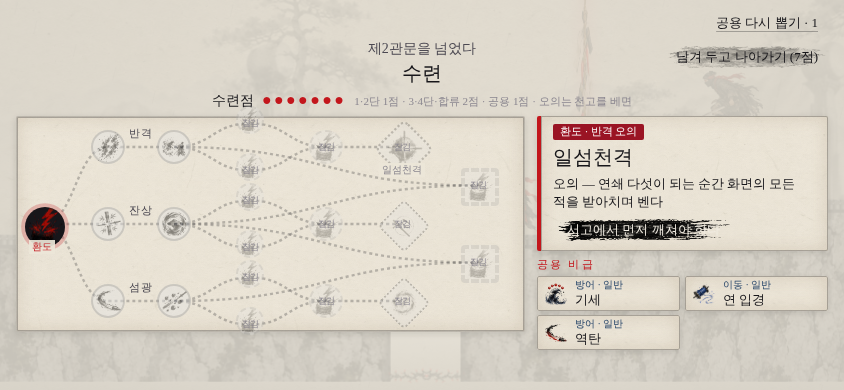
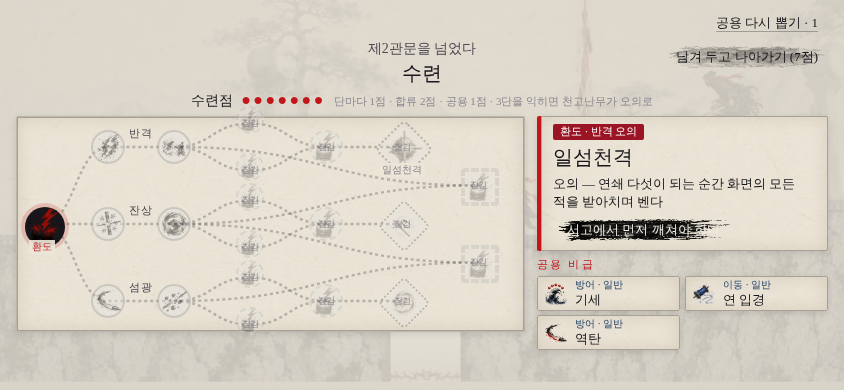
Difficulty from play log (breath 4, longer i-frames, wider 간파, gentler 매 dive, one free fall per gate, lighter guardians) and 천고난무 rework: plain shared move, becomes the weapon's 오의 when a branch reaches 3단
Claude-Session: https://claude.ai/code/session_01Rc1cVb1vkCQfdutHoe7fgf

Changed region(s): [[0.2156, 0.2462, 0.7701, 0.2769]]

diff --git a/js/game.js b/js/game.js
@@ -180,6 +180,10 @@ const treeNodesHeld = () => (run.perks || []).filter(id => nodeOf(id));
 // 서고 수련: 0 → 3단까지, 1 → 4단까지, 2 → 합류까지 (META.treeOpen[weapon] counts what has been learned)
 const TREE_OPEN = [{ hon: TUNING.TREE_OPEN_HON[0], ms: 0, name: "3단 깨치기", desc: "모든 무기의 갈래마다 둘 중 하나를 고르는 3단이 열린다" }, { hon: TUNING.TREE_OPEN_HON[1], ms: 1, name: "4단 깨치기", desc: "모든 무기의 3단 뒤 4단이 열린다 (어느 무기든 숙련 1)" }, { hon: TUNING.TREE_OPEN_HON[2], ms: 2, name: "합류 깨치기", desc: "모든 무기에서 이웃한 두 갈래를 잇는 합류가 열린다 (어느 무기든 숙련 2)" }];
 const treeOpen = () => { const o = META.treeOpen || {}; return Math.max(o.all || 0, ...Object.values(o).filter(Number.isFinite)); };   // learned once for every weapon (older saves: the furthest any weapon got)
+// 천고난무-오의: taking a branch's 3단 in this run turns the plain 천고난무 into the weapon's 오의 (and grants that branch's 오의 node)
+const ougiOpen = () => !!(run && run.ougiId);
+function branchEnd(c) { if (!c || !c.tree || c.tier !== 3 || run.ougiId) return; const o = CHOSIK.find(x => x.tree === c.tree && x.ougi && x.br === c.br);
+  run.ougiId = o ? o.id : "open"; if (o && !run.perks.includes(o.id)) run.perks.push(o.id); Music.jing(); toast(`갈래 끝에 닿았다 · 천고난무가 오의로 바뀐다 — ${ougiOf().name}`); }
 const lockLv = c => c.merge ? 3 : c.ougi ? 1 : c.lock || 0;   // 오의 too stays sealed until the 서고 opens the deeper steps
 function treeOffer() { // the nodes you could take now: the root, then step by step along a branch; 오의 never (깨달음 gives it)
   const T = treeKey(), held = new Set(run.perks || []), out = [], hasRoot = CHOSIK.some(o => o.tree === T && o.tier === 0);
@@ -193,15 +197,11 @@ function syncCombos() { // two 비급 held together reveal a third
   for (const c of COMBOS) if (!run.perks.includes(c.id) && COMBO_NEED[c.id].every(id => has(id))) { run.perks.push(c.id); toast(`조합 발견 · ${c.name} — ${c.desc.replace(/^조합\([^)]*\) — /, "")}`); Music.jing(); }
 }
 // 깨달음: cutting 천고 opens one 오의 at the end of a branch you have walked two steps along; a second time awakens it
-function enlighten(then) {
+function enlighten(then) { // cutting 천고: an open 오의 awakens; otherwise a reminder of how it opens
   then = then || (() => showChoice("cycle"));
-  const tk = treeKey(), held = new Set(run.perks || []);
-  if (run.ougiId) { if (!run.ougiAwake) { run.ougiAwake = true; saveRun(); const c = CHOSIK_BY[run.ougiId]; toast(`각성 · ${c ? c.name : "오의"} — 천고 오의가 더 넓고, 쓰면 기운 절반이 돌아온다`); Music.jing(); } run.choosing = "cycle"; saveRun(); return then(); }
-  if (treeOpen() < 1) { toast("깨달음이 오지 않았다 · 본당 서고에서 \"3단 깨치기\"를 먼저 해야 오의를 깨칠 수 있다"); run.choosing = "cycle"; saveRun(); return then(); }
-  const els = CHOSIK.filter(c => c.tree === tk && c.ougi && CHOSIK.some(o => o.tree === tk && o.br === c.br && o.tier === 2 && held.has(o.id)));
-  if (!els.length) { toast("깨달음이 오지 않았다 · 한 갈래를 2단까지 걸어야 한다"); run.choosing = "cycle"; saveRun(); return then(); }
-  pickScreen("깨달음", "천고를 베었다 — 걸어온 갈래 끝에서 오의 하나가 열린다", els.map(c => ({ id: c.id, name: pv(c).name, han: pv(c).han, desc: pv(c).desc.replace(/^오의 — /, ""), icon: pv(c).icon })), it => {
-    run.ougiId = it.id; run.perks.push(it.id); run.choosing = "cycle"; saveRun(); Music.jing(); toast(`오의를 깨쳤다 · ${it.name}`); then(); });
+  if (ougiOpen()) { if (!run.ougiAwake) { run.ougiAwake = true; toast(`각성 · ${ougiOf().name} — 천고난무-오의가 더 넓고, 쓰면 기운 절반이 돌아온다`); Music.jing(); } }
+  else toast("한 갈래를 3단까지 익히면 천고난무가 오의로 바뀐다");
+  run.choosing = "cycle"; saveRun(); return then();
 }
 
 const kindOf = id => (CHOSIK.find(c => c.id === id) || {}).kind;
@@ -557,7 +557,7 @@ window.addEventListener("keyup", e => {
   if (slashKey(e.code) && iaiFrom != null) { slashReq = { dir: null, ts: e.timeStamp, dash: false, iai: (e.timeStamp - iaiFrom) / 1000 }; iaiFrom = null; if (P) P.iaiHold = false; return; }
   const a = keyAct(e.code); if (a) held[a] = 0; });
 let iaiFrom = null, remapFor = null;
-const KEY_ACTS = [["slash", "베기", "J"], ["jump", "점프", "Space"], ["dash", "대시", "K"], ["hook", "연", "L"], ["drum", "오의 (북)", "Q"]];
+const KEY_ACTS = [["slash", "베기", "J"], ["jump", "점프", "Space"], ["dash", "대시", "K"], ["hook", "연", "L"], ["drum", "천고난무 (북)", "Q"]];
 const keyName = c => !c ? "" : c.replace(/^Key/, "").replace(/^Digit/, "").replace("ShiftLeft", "왼 Shift").replace("ShiftRight", "오른 Shift").replace("Space", "Space");
 function keyScreen() { // 키 바꾸기: one extra key per action, kept beside the defaults
   const ck = settings.keys || {};
@@ -898,7 +898,7 @@ const dailySeed = key => { let h = 2166136261; for (const c of "천고" + key) h
 function newRun(quiet, daily) {
   if (hubOn) leaveHub();
   const key = todayKey();
-  run = { v: 2, seed: daily ? dailySeed(key) : (Math.random() * 2 ** 32) >>> 0, dateKey: key, daily: daily ? key : undefined, m: 0, cp: -1, dead: [],
+  run = { v: 2, seed: daily ? dailySeed(key) : (Math.random() * 2 ** 32) >>> 0, dateKey: key, daily: daily ? key : undefined, m: 0, cp: -1, dead: [], sp: TUNING.START_SP,
     breath: startBreath(), time: 0, deaths: 0, kills: 0, strikes: 0, slashes: 0, perks: [], weapon: "hwando", oath: null, char: "mumyeong", picking: true };
   mode = "run";
   saveRun(); if (quiet !== true) startPicks();
@@ -1002,7 +1002,7 @@ function enterMadang() {
   try { navigator.wakeLock && navigator.wakeLock.request("screen").catch(() => {}); } catch (e) {}
 }
 function tutHints() { // the 수련터 signs, read for the hands in use: touch words on a phone, keys on a keyboard — plus the beat and the short dash
-  const K = ["← → 이동 · Space 점프", null, "J = 베기 · ↑↓와 함께 위아래", null, null, "공중에서 K를 누르고 있으면 무아경 — 시간이 느려지고 기력이 닳는다", "원이 점이 될 때 베면 간파 · 북이 차면 Q로 오의"];
+  const K = ["← → 이동 · Space 점프", null, "J = 베기 · ↑↓와 함께 위아래", null, null, "공중에서 K를 누르고 있으면 무아경 — 시간이 느려지고 기력이 닳는다", "원이 점이 될 때 베면 간파 · 북이 차면 Q로 천고난무"];
   const hs = TUTORIAL.hints.map((h, i) => MOBILE || !K[i] ? h : [h[0], h[1], K[i]]);
   hs.push([38, 8, MOBILE ? "대시 짧게 = 짧은 돌진" : "K 짧게 = 짧은 돌진"], [73, 2, "북이 쿵 울리는 박에 베면 붉은 일격"]);
   return hs;
@@ -1063,7 +1063,7 @@ function die(kind, dmg = 1) {
 }
 function guardBlow(kind) { // 방어 비급: what takes the blow instead of a 숨
   const cx = P.x + P.w / 2, cy = P.y + P.h / 2, ward = (t, msg) => { P.invT = t; P.focus = false; Music.muffle(false); P.dashT = 0; shake = Math.max(shake, 7); flash = .15; hitstop = Math.max(hitstop, .06); Music.sfx("clang"); ringFx(cx, cy, 110, "rgba(195,22,28,.6)", .35); toast(msg); lastHitDir = null; return true; };
-  if (kind === "fall") { if (has("d_nakbeop") && (run.nakN || 0) < 2 && P.safe) { run.nakN = (run.nakN || 0) + 1; P.x = P.safe.x; P.y = P.safe.y; P.vx = P.vy = 0; P.hook = null; return ward(1.2, `낙법 · 딛던 땅으로 (${2 - run.nakN}번 남음)`); } return false; }
+  if (kind === "fall") { if ((run.nakN || 0) < (has("d_nakbeop") ? 2 : 1) + TUNING.FREE_FALLS - 1 && P.safe) { run.nakN = (run.nakN || 0) + 1; P.x = P.safe.x; P.y = P.safe.y; P.vx = P.vy = 0; P.hook = null; return ward(1.2, `낙법 · 딛던 땅으로 (${2 - run.nakN}번 남음)`); } return false; }
   if (has("bd_b3") && (P.iaiHold || (P.focus && wk() === "baldo")) && (run.fudoN || 0) < 3) { run.fudoN = (run.fudoN || 0) + 1; const t = nearestFoes(cx, cy, 1, 400)[0];   // 부동명왕
     P.iaiHold = false; P.focus = false; Music.muffle(false); if (t) { const dx = t.x + t.w / 2 - cx, dy = t.y + t.h / 2 - cy, L = Math.hypot(dx, dy) || 1; P.iaiCut = true; startDash({ x: dx / L, y: 0 }, true); P.dashT = .22; hurtEnemy(t, t.type !== "b" ? true : 2); }
     ougiArt(["ogA", 10], cx, P.y + P.h, 150, { life: .7, ay: 1 }); return ward(.8, `부동명왕 · ${3 - run.fudoN}번 남음`); }
@@ -1128,7 +1128,7 @@ function madangClear() {
 // 수련: a real skill tree. Each cleared gate gives 수련점; spend them on the weapon's tree (a node opens the next along its branch),
 // or on a shared 비급 for the 방어·간파·이동 slots. Unspent points are kept.
 const SP_GAIN = TUNING.SP_GAIN;
-const spCost = c => c.tier >= 3 ? 2 : 1;
+const spCost = c => c.merge ? 2 : 1;   // a branch walks to its end on one point a step
 function showChoice(kind) {   // kind: "madang" after a cleared gate, "cycle" after cutting 천고, "bonus", "tower", or "pause" (spending from the pause menu)
   const done = () => {
     run.choosing = null; $("choice").classList.remove("tree");
@@ -1155,14 +1155,14 @@ function showChoice(kind) {   // kind: "madang" after a cleared gate, "cycle" af
   $("chTitle").textContent = "수련"; $("choice").classList.remove("route", "wpick"); $("choice").classList.add("tree"); document.querySelectorAll(".route-trail,.ch-held").forEach(o => o.remove());
   $("chMadang").textContent = kind === "pause" ? "멈춤 · 수련" : kind === "tower" ? `천고탑 ${run.floor - 1}층을 넘었다` : kind === "cycle" ? `천고를 베었다 · ${(run.cycle || 0) + 1}번째` : kind === "bonus" ? "징조의 대가" : run.cleared === "rest" ? "쉼터 · 수련" : run.cleared === "event" ? "기연" : `${josa(stageOf(run.m - 1).ko, "을", "를")} 넘었다`;
   const box = $("cards"); box.innerHTML = "";
-  const sp = document.createElement("div"); sp.className = "tr-sp"; sp.innerHTML = `수련점 <b>${"●".repeat(run.sp || 0) || "－"}</b><small>1·2단 1점 · 3·4단·합류 2점 · 공용 1점 · 오의는 천고를 베면</small>`; box.appendChild(sp);
+  const sp = document.createElement("div"); sp.className = "tr-sp"; sp.innerHTML = `수련점 <b>${"●".repeat(run.sp || 0) || "－"}</b><small>단마다 1점 · 합류 2점 · 공용 1점 · 3단을 익히면 천고난무가 오의로</small>`; box.appendChild(sp);
   const wrap = document.createElement("div"); wrap.className = "tr-wrap"; box.appendChild(wrap);
   const graph = document.createElement("div"); graph.className = "tr-graph"; const side = document.createElement("div"); side.className = "tr-side"; wrap.append(graph, side);
   let sel = null;
   const learn = c => { const cost = c.tree ? spCost(c) : 1; if ((run.sp || 0) < cost) { toast("수련점이 모자라다"); return; }
     if (!(META.seen = META.seen || []).includes(c.id)) { META.seen.push(c.id); saveMeta(); }
     if (c.id === "sum") { run.sp -= cost; run.breath = Math.min(breathCap(), run.breath + 1); }
-    else if (c.tree) { if (!canTake.has(c.id)) return; run.sp -= cost; run.perks.push(c.id); }
+    else if (c.tree) { if (!canTake.has(c.id)) return; run.sp -= cost; run.perks.push(c.id); branchEnd(c); }
     else if (slotFull(c.kind)) { replaceScreen(c, ok => { if (ok) run.sp -= cost; saveRun(); showChoice(kind); }); return; }
     else { run.sp -= cost; run.perks.push(c.id); }
     syncCombos(); Music.sfx("lantern"); saveRun(); showChoice(kind); };
@@ -1170,7 +1170,7 @@ function showChoice(kind) {   // kind: "madang" after a cleared gate, "cycle" af
     const v = pv(c), mine = owned(c.id), can = c.tree ? canTake.has(c.id) : true, cost = c.tree ? spCost(c) : 1;
     const lk = c.tree && lockLv(c) > treeOpen(), r = !c.tree && RARITY[c.id] || 1, otherFork = c.fork != null && CHOSIK.some(o => o.tree === tk && o.br === c.br && o.tier === 3 && o.id !== c.id && owned(o.id));
     const d = side.querySelector(".tr-det"); d.innerHTML = `<em class="tag kind${c.ougi ? " ougi" : ""}">${c.tree ? `${T.name} · ${c.brName} ${c.ougi ? "오의" : c.tier ? c.tier + "단" : ""}` : `${c.kind || "숨"}${c.kind ? " · " + RAR_NAME[r] : ""}`}</em><b>${v.name}</b><p>${v.desc}</p>`;
-    const b = document.createElement("button"); b.className = "btn pri"; b.textContent = mine ? "익혔다" : c.ougi ? (treeOpen() < 1 ? "서고에서 먼저 깨쳐야 한다" : "천고를 베면 깨닫는다") : lk ? "서고에서 먼저 깨쳐야 한다" : otherFork ? "다른 갈래를 골랐다" : !can ? "앞 단계를 먼저" : `익히기 · ${cost}점`; b.disabled = mine || !can || (run.sp || 0) < cost; b.addEventListener("click", () => learn(c)); d.appendChild(b); };
+    const b = document.createElement("button"); b.className = "btn pri"; b.textContent = mine ? "익혔다" : c.ougi ? (treeOpen() < 1 ? "서고에서 먼저 깨쳐야 한다" : "이 갈래 3단을 익히면 열린다") : lk ? "서고에서 먼저 깨쳐야 한다" : otherFork ? "다른 갈래를 골랐다" : !can ? "앞 단계를 먼저" : `익히기 · ${cost}점`; b.disabled = mine || !can || (run.sp || 0) < cost; b.addEventListener("click", () => learn(c)); d.appendChild(b); };
   if (T) { // the graph: root on the left, three branches → 1단 · 2단 · a fork of two · 4단 · 오의, two 합류 on the far right
     const ys = [14, 50, 86], X = { 0: 5, 1: 18, 2: 31, 3: 46, 4: 61, 5: 76 }, mx = 91, at = c => c.tier === 0 ? [X[0], 50] : c.merge ? [mx, (ys[c.merge[0]] + ys[c.merge[1]]) / 2] : [X[c.tier], ys[c.br] + (c.fork != null ? (c.fork ? 11 : -11) : 0)];
     const nodes = CHOSIK.filter(c => c.tree === tk), on = c => owned(c.id), line = (p, q, lit) => `<path d="M${p[0]} ${p[1]} C ${(p[0] + q[0]) / 2} ${p[1]}, ${(p[0] + q[0]) / 2} ${q[1]}, ${q[0]} ${q[1]}" class="${lit ? "on" : ""}"/>`;
@@ -1370,7 +1370,7 @@ function endRun(won) {
   $("rStats").innerHTML = "";
   const gain = runRewards(reached);
   if (mode !== "tutorial") { META.log = (Array.isArray(META.log) ? META.log : []).slice(-29); META.log.push({ d: todayKey(), w: run.weapon, diff: settings.diff, r: reached, won: !!won, hon: gain.hon, cause: won ? null : run.lastCause || null, t: Math.round(run.time), g: (run.log || []).slice(-8) });   // the last thirty runs, for the 기록 board
-    const last = META.log.slice(-3); if (settings.diff === 1 && last.length === 3 && last.every(l => !l.won && l.r <= 1) && !(META.tips || {}).suggestEasy) { (META.tips = META.tips || {}).suggestEasy = 1; setTimeout(() => toast("초반이 벅차면 설정에서 난이도 \"수월\"을 고를 수 있다"), 1800); } }
+    const last = META.log.slice(-2); if (settings.diff === 1 && last.length === 2 && last.every(l => !l.won && l.r <= 1) && !(META.tips || {}).suggestEasy) { (META.tips = META.tips || {}).suggestEasy = 1; setTimeout(() => toast("초반이 벅차면 설정에서 난이도 \"수월\"을 고를 수 있다"), 1800); } }
   if (mode !== "tutorial" && run.petJ && petMeta()) { const b4 = petStage(); META.pet.jeong = (META.pet.jeong || 0) + run.petJ; gain.jeong = run.petJ; run.petJ = 0; if (petStage() > b4) gain.petUp = PET_ST[petStage()]; }
   if (mode !== "tutorial") { gain.sum = Math.max(1, Math.max(0, run.breath) + Math.floor(reached / 2)); META.sum = (META.sum || 0) + gain.sum; saveMeta(); }   // the breath left over goes home to the 거점
   retryGain = null;   /* 다시 시작 is gone: a death is a death */
@@ -2311,11 +2311,11 @@ function stepEnemiesIn(dt) {
       e.t += dt;
       const sees = live && dist < 430 && los(ecx, ecy, pcx, pcy);
       if (e.diveT > 0) { e.diveT -= dt; e.vx = e.dvx; e.vy = e.dvy; }   // 매: the dive itself
-      else if (e.diveAt != null) { e.vx *= .85; e.vy *= .85; if (songPos >= e.diveAt) { const L = Math.hypot(pcx - ecx, pcy - ecy) || 1; e.dvx = (pcx - ecx) / L * 560; e.dvy = (pcy - ecy) / L * 560; e.diveT = .45; e.diveAt = null; e.diveReady = songPos + 3 * bl; Music.sfx("dash"); } }
-      else if (sees && dist < 300 && songPos >= (e.diveReady || 1)) { e.diveAt = (Math.floor(songPos / bl) + 1) * bl; if (e.diveAt - songPos < .5) e.diveAt += bl; }
+      else if (e.diveAt != null) { e.vx *= .85; e.vy *= .85; if (songPos >= e.diveAt) { const L = Math.hypot(pcx - ecx, pcy - ecy) || 1; e.dvx = (pcx - ecx) / L * TUNING.HAWK_DIVE_V; e.dvy = (pcy - ecy) / L * TUNING.HAWK_DIVE_V; e.diveT = .45; e.diveAt = null; e.diveReady = songPos + TUNING.HAWK_REST_BEATS * bl; Music.sfx("dash"); } }
+      else if (sees && dist < 300 && songPos >= (e.diveReady || 1)) { e.diveAt = (Math.floor(songPos / bl) + 1) * bl; if (e.diveAt - songPos < TUNING.HAWK_TELL) e.diveAt += bl; }
       else if (sees) { e.vx += (pcx - ecx) / dist * 520 * dt; e.vy += (pcy - ecy) / dist * 520 * dt; }
       else { e.vx += (e.hx - e.x) * 2 * dt; e.vy += (e.hy + Math.sin(e.t * 2) * 10 - e.y) * 2 * dt; }
-      const sp = Math.hypot(e.vx, e.vy), cap = e.diveT > 0 ? 600 : (sees ? 175 : 80); if (sp > cap) { e.vx *= cap / sp; e.vy *= cap / sp; }
+      const sp = Math.hypot(e.vx, e.vy), cap = e.diveT > 0 ? TUNING.HAWK_DIVE_V + 40 : (sees ? 175 : 80); if (sp > cap) { e.vx *= cap / sp; e.vy *= cap / sp; }
       if (moveX(e, e.vx * dt)) e.vx *= -0.5;
       if (moveY(e, e.vy * dt)) e.vy *= -0.5;
       if (live && overlap(e, P)) { if (P.dashT > 0 || P.slashT > 0) { if (P.dashT > 0 ? !P.dashHit.has(e.id) : !(P.hitSet && P.hitSet.has(e.id))) { (P.dashT > 0 ? P.dashHit : P.hitSet).add(e.id); if (P.dashT > 0) dashHurt(e); else hurtEnemy(e, P.strike && P.slashT > 0); } } else if (!(e.hitT > 0)) die(); }
@@ -2458,22 +2458,23 @@ const viaMua = () => !!(P && P.aimDash && !P.tapDash);   // the cut came out of 
 function chainAdd(n) { if (!P) return; const g0 = Math.min(5, P.chain || 0); P.chain = (P.chain || 0) + n; P.chainPop = .25; if (Math.min(5, P.chain) > g0) Music.sfx("lantern"); }
 function addQi(n) { // 천고 기운: won by fighting well — 일섬, 간파, 과녁
   if (mode === "tutorial" || !run) return; const before = run.qi || 0; run.qi = Math.min(100, before + n * .6 * (1 + treeStat("qi")) * (oath("jangdan") ? 2 : 1) * (1 + .15 * Math.min(8, (P && P.chain) || 0)));
-  if (before < 100 && run.qi >= 100) { if (META.tips && META.tips.chungo) toast(`천고 기운이 찼다 · ${MOBILE ? "태극 북" : "북 또는 Q"} → 오의 ${ougiOf().name}`);
-    else tipOnce("chungo", `오의 · ${ougiOf().name}`, `북이 다 찼다 — ${ougiOf().tip}. 원할 때 쓴다`, MOBILE ? "아래 태극 북을 누르기" : "태극 북 클릭 또는 Q"); Music.jing(); }
+  if (before < 100 && run.qi >= 100) { if (META.tips && META.tips.chungo) toast(`천고 기운이 찼다 · ${MOBILE ? "태극 북" : "북 또는 Q"} → ${drumName()}`);
+    else tipOnce("chungo", "천고난무", `북이 다 찼다 — 가까운 적 다섯을 먹선으로 잇고 한 번에 벤다. 한 갈래를 3단까지 익히면 무기의 오의로 바뀐다`, MOBILE ? "아래 태극 북을 누르기" : "태극 북 클릭 또는 Q"); Music.jing(); }
 }
 let chungoFx = null;
 const ougiOf = () => OUGI[wpn()] || OUGI[wrule()] || OUGI.hwando;
+const drumName = () => ougiOpen() ? `천고난무-오의 · ${ougiOf().name}` : "천고난무";
 function ougiArt(key, x, y, h, o = {}) { const [sh, i] = key; if (SPR[sh]) { addFx(sh, i, x, y, h, { life: .6, grow: .3, ...o }); return true; } return false; }
 function ougiCall(o) { flashDim = Math.max(flashDim, .1); }   // the art speaks for itself: no name is written
 let bossBannerLite = null;   // the 오의's name brushed large for a moment
-function chungo() { // the full drum: 오의. Swords lay ink lines from foe to foe, then all fall at once; guns let go a single overwhelming volley
-  const o = ougiOf(), w = wpn();
-  if (WEAPONS[w] && WEAPONS[w].gun) return gunOugi(w, o);
+function chungo() { // the full drum: 천고난무 — plain and the same for every weapon until a branch's end turns it into the weapon's 오의
+  const o = ougiOf(), w = wpn(), open = ougiOpen();
+  if (open && WEAPONS[w] && WEAPONS[w].gun) return gunOugi(w, o);
   const cx = P.x + P.w / 2, cy = P.y + P.h / 2, d = a => Math.hypot(a.x + a.w / 2 - cx, a.y + a.h / 2 - cy);
-  const ts = enemies.filter(e => e.alive && !ghostly(e) && !e.hidden && d(e) < (run.ougiAwake ? 640 : 480)).sort((a, b) => d(a) - d(b)).slice(0, (has("d_giseom") ? 10 : 8) + (run.ougiAwake ? 4 : 0));
+  const ts = enemies.filter(e => e.alive && !ghostly(e) && !e.hidden && d(e) < (!open ? 400 : run.ougiAwake ? 640 : 480)).sort((a, b) => d(a) - d(b)).slice(0, !open ? 5 : (has("d_giseom") ? 10 : 8) + (run.ougiAwake ? 4 : 0));
   if (!ts.length) return false;
   const pts = [{ x: cx, y: cy }, ...ts.map(e => ({ x: e.x + e.w / 2, y: e.y + e.h / 2 }))];
-  chungoFx = { pts, ts, t: 0, done: false, w: wrule() }; run.qi = run.ougiAwake ? 50 : 0; P.invT = Math.max(P.invT || 0, 1.2); P.vx = P.vy = 0;
+  chungoFx = { pts, ts, t: 0, done: false, w: open ? wrule() : "hwando", plain: !open }; run.qi = run.ougiAwake ? 50 : 0; P.invT = Math.max(P.invT || 0, 1.2); P.vx = P.vy = 0;
   for (const e of ts) e.stunT = Math.max(e.stunT || 0, 2); Music.sfx("dash"); flashDim = .12; ougiCall(o); return true;
 }
 function gunOugi(w, o) { // the four guns' 오의
@@ -2502,11 +2503,11 @@ function stepChungo(rdt) {
   const c = chungoFx; if (!c) return; c.t += rdt; hitstop = Math.max(hitstop, .05);
   const n = c.pts.length - 1, lay = .09;
   if (c.t >= n * lay + .25 && !c.done) { c.done = true;   // the held breath lets go
-    P.aimDash = true; P.aimedUntil = songPos + .6; for (const e of c.ts) { hurtEnemy(e, 2); if (!e.alive) bleed(e.x + e.w / 2, e.y + e.h / 2, { x: (Math.random() - .5) * 2, y: -.5 }, true); } P.aimDash = false;
+    P.aimDash = true; P.aimedUntil = songPos + .6; for (const e of c.ts) { hurtEnemy(e, c.plain && e.type === "b" ? false : 2); if (!e.alive) bleed(e.x + e.w / 2, e.y + e.h / 2, { x: (Math.random() - .5) * 2, y: -.5 }, true); } P.aimDash = false;
     const last = c.ts[c.ts.length - 1], side = Math.sign(last.x + last.w / 2 - c.pts[0].x) || P.face, nx = last.x + last.w / 2 + side * (last.w / 2 + 16) - P.w / 2, ny = last.y + last.h - P.h - .01;
     if (!rectSolid(nx, ny, P.w, P.h)) { P.x = nx; P.y = ny; P.face = -side; } P.vy = -200; regainAir();
     if (c.w === "woldo") for (const e of c.ts) addFx("wfx", WF2.quake, e.x + e.w / 2, e.y + e.h + 4, 70, { life: .5, grow: .2, ay: 1 });   // 낙월: each lands like a blow from above
-    { const o = ougiOf(); for (const e of c.ts) ougiArt(o.art, e.x + e.w / 2, e.y + e.h / 2, c.w === "baldo" ? 150 : 110, { life: .55, rot: c.w === "woldo" ? 0 : Math.random() * .5 - .25, ay: c.w === "woldo" ? .85 : .5 }); }
+    if (!c.plain) { const o = ougiOf(); for (const e of c.ts) ougiArt(o.art, e.x + e.w / 2, e.y + e.h / 2, c.w === "baldo" ? 150 : 110, { life: .55, rot: c.w === "woldo" ? 0 : Math.random() * .5 - .25, ay: c.w === "woldo" ? .85 : .5 }); }
     for (const e of c.ts) addFx("wfx", c.w === "ssang" ? WF2.xcut : WF2.burst, e.x + e.w / 2, e.y + e.h / 2, c.w === "ssang" ? 90 : 76, { life: .4, grow: .3, rot: Math.random() * 6.28 });
     shake = c.w === "woldo" ? 22 : 18; flash = c.w === "baldo" ? .5 : .35; killCam = Math.max(killCam, .7); Music.jing(); Music.sfx("strike"); }
   if (c.t > n * lay + .9) chungoFx = null;
@@ -4821,7 +4822,7 @@ $("bAgain").addEventListener("click", () => newRun());
 $("bHelp").addEventListener("click", () => { // the controls and the hidden rules, one board, back to the pause
   const T2 = MOBILE ? [["이동", "왼쪽 화면을 끌기"], ["베기", "오른쪽 화면을 긋거나 탭 — 그은 방향으로 벤다"], ["점프", "점프 버튼 · 벽에 붙어 누르면 벽차기"], ["대시", "짧게 = 돌진 · 길게 누르기 = 무아경(시간이 느려짐) → 떼면 일섬"], ["연", "연 버튼 — 가까운 연을 잡고 날아오른다"]]
     : [["이동", "← → (↑ ↓ 조준)"], ["베기", "J 또는 X"], ["점프", "Space · 벽에 붙어 누르면 벽차기"], ["대시", "K/C/Shift 짧게 = 돌진 · 길게 = 무아경 → 떼면 일섬"], ["연", "L"], ["멈춤", "Esc"]];
-  const R2 = [["간파", "적 몸의 원이 점으로 닫히는 순간 베면 무조건 쓰러지고 기세·날·탄이 돌아온다"], ["일격", "북이 울리는 박에 맞춰 베면 붉은 일격"], ["총", "탭 = 허리 사격(가까이·한 발) · 길게 = 걸으며 조준 → 떼면 조준 사격 · 번쩍이는 적을 쏘면 탄이 가득"], ["방패", "등패수는 정면을, 북잡이는 모든 방향을 막는다 — 간파·일섬·일격으로 벤다 (총은 뚫는다)"], ["붉은 탄", "가시 테두리 탄은 되받아칠 수 없다 — 피하거나 쏘기 전에 간파"], ["숨", "맞으면 하나 잃는다 · 관문을 넘으면 셋까지 하나 돌아온다"], ["기력 (왼쪽 위 붓줄)", "무아경을 버티는 힘 · 땅을 밟으면 찬다"], ["기세 (왼쪽 위 다섯 칸)", "베고 간파할수록 오른다 · 5단이면 무아지경 · 맞으면 한 단 내려간다"], ["천고 기운 (아래 북)", "북이 다 차면 무기의 오의 한 번"], ["날 · 탄 (머리 위)", "칼은 날이 무디면 튕기고, 총은 탄이 비면 찌른다 — 쉬거나 간파하면 돌아온다"]];
+  const R2 = [["간파", "적 몸의 원이 점으로 닫히는 순간 베면 무조건 쓰러지고 기세·날·탄이 돌아온다"], ["일격", "북이 울리는 박에 맞춰 베면 붉은 일격"], ["총", "탭 = 허리 사격(가까이·한 발) · 길게 = 걸으며 조준 → 떼면 조준 사격 · 번쩍이는 적을 쏘면 탄이 가득"], ["방패", "등패수는 정면을, 북잡이는 모든 방향을 막는다 — 간파·일섬·일격으로 벤다 (총은 뚫는다)"], ["붉은 탄", "가시 테두리 탄은 되받아칠 수 없다 — 피하거나 쏘기 전에 간파"], ["숨", "맞으면 하나 잃는다 · 관문을 넘으면 셋까지 하나 돌아온다"], ["기력 (왼쪽 위 붓줄)", "무아경을 버티는 힘 · 땅을 밟으면 찬다"], ["기세 (왼쪽 위 다섯 칸)", "베고 간파할수록 오른다 · 5단이면 무아지경 · 맞으면 한 단 내려간다"], ["천고 기운 (아래 북)", "북이 다 차면 천고난무 한 번 (갈래 3단이면 오의)"], ["날 · 탄 (머리 위)", "칼은 날이 무디면 튕기고, 총은 탄이 비면 찌른다 — 쉬거나 간파하면 돌아온다"]];
   board("조작법", "멈춘 동안 읽어 둔다", [...T2, ...R2].map(([a, b]) => bdRow(a, b)), [["돌아가기", () => { state = "pause"; showScreen("pause"); }]]); });
 $("bSame").addEventListener("click", () => { if (!lastKit) return newRun(); const k = lastKit; newRun(true); Object.assign(run, { char: k.char, weapon: k.weapon, simbeop: k.simbeop, oath: k.oath, perks: k.perks.slice(), picking: false }); if (k.oath === "pi") run.breath = Math.min(run.breath, 2); run.breath = Math.min(run.breath, breathCap()); saveRun(); Music.stop(); showInterlude(); });
 $("bResMenu").addEventListener("click", () => showMemories(toMenu));
@@ -4839,7 +4840,7 @@ $("bInstall").addEventListener("click", async () => { if (!installEvt) return; i
 const standalone = matchMedia("(display-mode: standalone)").matches || matchMedia("(display-mode: fullscreen)").matches || navigator.standalone;
 
 
-if (location.hash === "#debug" && /^(localhost|127\.0\.0\.1)$/.test(location.hostname)) window.__dbg = { get missing() { return ALL_SHEETS.filter(n => !LAZY_SHEETS.has(n) && !SPR[n]).concat(BASE_IMGS.filter(k => !IMG[k])); }, tp(tx, ty) { P.x = tx * T + 7; P.y = (ty + 1) * T - 30; P.vx = P.vy = 0; }, get state() { return state; }, get P() { return P; }, get LV() { return LV; }, get state2() { return state; }, get SC() { return LV.scenery; }, get E() { return enemies; }, get run() { return run; }, set hs(v) { hitstop = v; }, kill(e) { killEnemy(e); }, hurt(e, s, k) { hurtEnemy(e, s, k); }, die(k, d) { die(k, d); }, banner(a, b, c) { banner(a, b === "red" ? SEAL : JJOK, c); }, chungo() { chungo(); }, clear() { madangClear(); }, hubAct() { hubAct(); }, get hub() { return { hubOn, hubNear }; }, get songPos() { return songPos; }, get FLASH() { return FLASH; }, get hold() { return bulletHold; }, get bolts() { return bolts; }, get rings() { return rings; }, get B() { return bullets; }, get beams() { return beams; }, flashing: e => isFlashing(e), wipe: () => inkWipe(), kickFx: (k, a, b, c) => k === "air" ? airKickFx(a, b, c) : wallKickFx(a, b, c), enlighten: f => enlighten(f), syncCombos: () => syncCombos(), has: id => has(id), get FL() { flashSync(); return FLASH; } };
+if (location.hash === "#debug" && /^(localhost|127\.0\.0\.1)$/.test(location.hostname)) window.__dbg = { get missing() { return ALL_SHEETS.filter(n => !LAZY_SHEETS.has(n) && !SPR[n]).concat(BASE_IMGS.filter(k => !IMG[k])); }, tp(tx, ty) { P.x = tx * T + 7; P.y = (ty + 1) * T - 30; P.vx = P.vy = 0; }, get state() { return state; }, get P() { return P; }, get LV() { return LV; }, get state2() { return state; }, get SC() { return LV.scenery; }, get E() { return enemies; }, get run() { return run; }, set hs(v) { hitstop = v; }, kill(e) { killEnemy(e); }, hurt(e, s, k) { hurtEnemy(e, s, k); }, die(k, d) { die(k, d); }, banner(a, b, c) { banner(a, b === "red" ? SEAL : JJOK, c); }, chungo() { chungo(); }, clear() { madangClear(); }, hubAct() { hubAct(); }, get hub() { return { hubOn, hubNear }; }, get songPos() { return songPos; }, get FLASH() { return FLASH; }, get hold() { return bulletHold; }, get bolts() { return bolts; }, get rings() { return rings; }, get B() { return bullets; }, get beams() { return beams; }, flashing: e => isFlashing(e), wipe: () => inkWipe(), branchEnd: id => branchEnd(CHOSIK_BY[id]), get chosik() { return CHOSIK; }, kickFx: (k, a, b, c) => k === "air" ? airKickFx(a, b, c) : wallKickFx(a, b, c), enlighten: f => enlighten(f), syncCombos: () => syncCombos(), has: id => has(id), get FL() { flashSync(); return FLASH; } };
 window.addEventListener("pointerdown", () => Music.unlock(), { once: true, capture: true });   // first tap anywhere starts the sound
 resize();
 toMenu();

diff --git a/index.html b/index.html
@@ -11,14 +11,14 @@
 <meta name="apple-mobile-web-app-status-bar-style" content="black-translucent">
 <meta name="apple-mobile-web-app-title" content="천고">
 <link rel="manifest" href="manifest.webmanifest">
-<link rel="icon" href="icons/icon-192.png?v=10031300">
-<link rel="apple-touch-icon" href="icons/apple-touch-icon.png?v=10031300">
+<link rel="icon" href="icons/icon-192.png?v=10031400">
+<link rel="apple-touch-icon" href="icons/apple-touch-icon.png?v=10031400">
 <link rel="preconnect" href="https://fonts.googleapis.com">
 <link rel="preconnect" href="https://fonts.gstatic.com" crossorigin>
 <link rel="stylesheet" href="https://fonts.googleapis.com/css2?family=Song+Myung&display=swap">
 <!-- hanja: Song Myung has none, so Nanum Myeongjo is fetched for just the characters the game shows -->
 <link rel="stylesheet" href="https://fonts.googleapis.com/css2?family=Nanum+Myeongjo&display=swap&text=%E4%B8%80%E4%B8%89%E4%B8%8A%E4%B8%8B%E4%B8%8D%E4%B8%99%E4%B8%9E%E4%B8%AD%E4%B8%B8%E4%B8%B9%E4%B8%BB%E4%B9%99%E4%B9%9D%E4%BA%82%E4%BA%8C%E4%BA%94%E4%BA%95%E4%BA%AD%E4%BF%83%E4%BF%AE%E5%81%87%E5%81%9C%E5%83%A7%E5%85%89%E5%85%A5%E5%85%A9%E5%85%AD%E5%85%B5%E5%85%B7%E5%86%A4%E5%86%B6%E5%86%B7%E5%87%8C%E5%88%80%E5%88%83%E5%88%86%E5%88%87%E5%88%91%E5%88%9D%E5%88%BA%E5%89%9B%E5%8A%8D%E5%8A%9B%E5%8A%9F%E5%8B%95%E5%8B%9D%E5%8B%A2%E5%8D%83%E5%8D%B4%E5%8D%B7%E5%8E%84%E5%8F%8D%E5%8F%A3%E5%8F%AF%E5%90%8D%E5%90%B8%E5%91%B5%E5%91%BD%E5%9B%9B%E5%9B%9E%E5%9C%B0%E5%9D%90%E5%A0%82%E5%A1%94%E5%A1%9E%E5%A2%83%E5%A2%93%E5%A2%9C%E5%A3%81%E5%A3%87%E5%A3%9E%E5%A4%A7%E5%A4%A9%E5%A4%B7%E5%A5%A7%E5%A5%AA%E5%A5%B3%E5%A6%99%E5%AD%97%E5%AD%A4%E5%AE%88%E5%AE%97%E5%AF%82%E5%AF%9E%E5%B0%84%E5%B0%87%E5%B0%8E%E5%B0%BE%E5%B1%88%E5%B1%B1%E5%B6%BA%E5%B7%AB%E5%B7%AE%E5%B8%B3%E5%B8%B6%E5%B9%95%E5%B9%B3%E5%B9%BB%E5%BA%AB%E5%BC%93%E5%BC%95%E5%BD%88%E5%BD%B1%E5%BE%8B%E5%BE%90%E5%BE%91%E5%BF%83%E5%BF%85%E5%BF%B5%E6%80%92%E6%80%A5%E6%81%AF%E6%87%89%E6%88%90%E6%88%B0%E6%88%BF%E6%89%80%E6%89%87%E6%89%8B%E6%89%93%E6%8B%8D%E6%8B%94%E6%8C%81%E6%8D%AE%E6%8E%A5%E6%8E%A8%E6%8F%9B%E6%93%8A%E6%94%B6%E6%95%A3%E6%96%A4%E6%96%AC%E6%96%B7%E6%97%8B%E6%98%87%E6%98%8E%E6%98%9F%E6%9A%B4%E6%9B%89%E6%9B%B8%E6%9C%88%E6%9C%9B%E6%9C%AC%E6%9D%BF%E6%9E%97%E6%A1%B6%E6%A2%85%E6%A2%AF%E6%A5%AD%E6%A7%8C%E6%A7%8D%E6%A8%93%E6%A9%9F%E6%AD%A2%E6%AD%A3%E6%AD%A5%E6%AD%A6%E6%AD%B8%E6%AD%BB%E6%AE%98%E6%AE%BA%E6%AE%BF%E6%B0%A3%E6%B0%B4%E6%B1%BA%E6%B3%89%E6%B3%95%E6%B4%BE%E6%B5%81%E6%B7%B1%E6%B7%B5%E6%B8%A1%E6%BA%96%E6%BB%85%E6%BB%91%E6%BB%BF%E6%BD%9B%E6%BF%83%E6%BF%A4%E7%81%AB%E7%82%8E%E7%82%B8%E7%83%8F%E7%84%A1%E7%84%B0%E7%85%99%E7%85%A7%E7%86%9F%E7%86%B1%E7%87%92%E7%87%95%E7%88%86%E7%89%8C%E7%8B%82%E7%8B%90%E7%8B%99%E7%8D%A8%E7%8D%AC%E7%8E%84%E7%8E%8B%E7%92%B0%E7%94%95%E7%94%9F%E7%94%B0%E7%94%B2%E7%96%BE%E7%99%BB%E7%99%BC%E7%99%BD%E7%9B%9F%E7%9B%A1%E7%9B%B8%E7%9C%8B%E7%9C%BC%E7%9D%80%E7%9E%AC%E7%9F%AD%E7%9F%B3%E7%A0%B2%E7%A0%B4%E7%A2%91%E7%A5%9E%E7%A5%A0%E7%A7%98%E7%A9%BA%E7%AA%81%E7%AA%9F%E7%AB%B9%E7%AC%88%E7%AC%A6%E7%AC%AC%E7%AD%92%E7%AE%A1%E7%AE%AD%E7%B4%85%E7%B5%82%E7%B5%90%E7%B5%B2%E7%B5%B6%E7%B6%AD%E7%B6%B2%E7%B6%B5%E7%B7%A3%E7%B7%B4%E7%B8%9B%E7%B8%AE%E7%B9%A9%E7%BA%8C%E7%BD%A1%E7%BD%AE%E7%BE%85%E7%BE%A9%E7%BF%94%E7%BF%BC%E8%81%B2%E8%83%8E%E8%84%9A%E8%87%BA%E8%88%9E%E8%8A%B1%E8%90%AC%E8%90%BD%E8%93%84%E8%97%A5%E8%99%8E%E8%99%95%E8%99%9B%E8%99%9F%E8%9E%AD%E8%A1%80%E8%A1%8C%E8%A1%93%E8%A1%9D%E8%A1%A3%E8%A2%96%E8%A3%82%E8%A5%B2%E8%A6%81%E8%A7%92%E8%A7%A3%E8%AA%93%E8%AA%98%E8%AA%BF%E8%AD%B7%E8%B0%B7%E8%B1%B8%E8%B3%AD%E8%B5%A4%E8%B5%B0%E8%B6%8A%E8%B6%B3%E8%B7%9D%E8%B7%A1%E8%B7%AF%E8%B7%B3%E8%B8%8F%E8%BA%8D%E8%BA%AB%E8%BB%8A%E8%BB%8D%E8%BC%95%E8%BC%AA%E8%BF%8E%E8%BF%91%E8%BF%94%E8%BF%BD%E9%80%86%E9%80%90%E9%80%9F%E9%80%A3%E9%81%8E%E9%81%A0%E9%82%84%E9%87%8C%E9%87%8D%E9%87%91%E9%88%B4%E9%8A%80%E9%8A%83%E9%8D%8A%E9%8D%9B%E9%8E%96%E9%8E%AD%E9%8F%A1%E9%90%B5%E9%95%B7%E9%96%80%E9%96%83%E9%96%93%E9%96%A3%E9%97%9C%E9%98%B2%E9%99%8D%E9%99%A3%E9%99%A4%E9%9A%AA%E9%9B%99%E9%9B%A2%E9%9B%A8%E9%9B%B2%E9%9B%B6%E9%9B%B7%E9%9B%BB%E9%9C%86%E9%9C%87%E9%9C%A7%E9%9C%B9%E9%9D%82%E9%9D%88%E9%9D%91%E9%9D%9C%E9%9D%A2%E9%A2%A8%E9%A3%9B%E9%A3%9F%E9%A6%99%E9%A6%AC%E9%A8%B0%E9%AA%A8%E9%AC%BC%E9%AD%82%E9%AD%9A%E9%B3%A5%E9%B3%B6%E9%B5%B2%E9%B6%B4%E9%B7%B9%E9%BB%91%E9%BC%93%E9%BD%8A%E9%BE%8D">
-<link rel="stylesheet" href="style.css?v=10031300">
+<link rel="stylesheet" href="style.css?v=10031400">
 </head>
 <body>
   <div id="loading"><div class="ld-in"><b class="ld-t">천고</b><div class="ld-bar"><i id="ldBar"></i></div><span id="ldTxt">먹을 가는 중</span></div></div>
@@ -172,11 +172,11 @@
   (ld.querySelector(".ld-in") || ld).appendChild(b); }
   window.addEventListener("error", function () { setTimeout(rescue, 1500); }); setTimeout(rescue, 25000); })();
 </script>
-<script src="js/tuning.js?v=10031300"></script>
-<script src="js/content.js?v=10031300"></script>
-<script src="js/data.js?v=10031300"></script>
-<script src="js/music.js?v=10031300"></script>
-<script src="js/game.js?v=10031300"></script>
+<script src="js/tuning.js?v=10031400"></script>
+<script src="js/content.js?v=10031400"></script>
+<script src="js/data.js?v=10031400"></script>
+<script src="js/music.js?v=10031400"></script>
+<script src="js/game.js?v=10031400"></script>
 <script>
 if ("serviceWorker" in navigator && (location.protocol === "https:" || location.hostname === "localhost")) {
   window.addEventListener("load", () => navigator.serviceWorker.register("sw.js", { updateViaCache: "none" }).then(r => r.update()).catch(() => {}));

diff --git a/js/tuning.js b/js/tuning.js
@@ -3,17 +3,17 @@ const TUNING = Object.freeze({
   // 몸: movement and timing (px, px/s, seconds)
   CLIMBV: 270, CLIMB_T: 0.5, GRAV: 1900, JUMPV: 640, MAXV: 300, DASHV: 1000, HOOK_R: 300, STRIKE_WIN: 0.15,
   TAP_T: 0.15,            // a dash released sooner than this is a tap (short dash / hip shot)
-  FLASH_BASE: 0.3,        // the 간파 window before a blow lands
+  FLASH_BASE: 0.34,       // the 간파 window before a blow lands
   FLASH_MAX: 0.6,         // all 간파 bonuses together never widen it past this (calm at one breath may still double it)
-  HIT_INVULN: 1.2,        // seconds untouchable after losing a breath
+  HIT_INVULN: 1.5,        // seconds untouchable after losing a breath
   // 숨
-  START_BREATH: 3, GATE_HEAL_TO: 3,   // a cleared gate gives one back while below this
+  START_BREATH: 4, GATE_HEAL_TO: 4,   // a cleared gate gives one back while below this
   REST_BREATH: 2,                     // 쉼터 · 숨 고르기
   // walking in: foes near the start wait for your first move
   START_SLEEP_R: 520, START_SLEEP_T: 8, ENTRY_FIRE_DELAY: 3,
   // 적
   TYPE_HP: { d: 1, g: 1, s: 1, a: 1, p: 2, m: 2, r: 2, h: 3, k: 3 },
-  BOSS_HP_MUL: 2.2, BOSS_HP_PER_CYCLE: 3, BOSS_GUARD_HITS: 3, BOSS_GUARD_T: 1.2,
+  BOSS_HP_MUL: 1.9, BOSS_HP_PER_CYCLE: 3, BOSS_GUARD_HITS: 3, BOSS_GUARD_T: 1.2,
   // 날: [notches, seconds per notch]
   EDGE: { hwando: [4, .55], ssang: [5, .45], woldo: [3, .75], baldo: [3, .7] },
   // 기세
@@ -21,7 +21,11 @@ const TUNING = Object.freeze({
   // 보상
   HON_PER_GATE: 5, HON_PER_FLOOR: 9,
   SP_GAIN: { madang: 1, cycle: 2, bonus: 1, tower: 1, stage: 1 },
-  TREE_OPEN_HON: [60, 100, 140],
+  TREE_OPEN_HON: [40, 90, 130],
+  START_SP: 1,            // 수련점 a run starts with
+  FREE_FALLS: 1,          // falls per gate that only send you back to where you stood
+  // 매: how long it shows the dive (s), how fast it dives, beats it rests after
+  HAWK_TELL: 0.7, HAWK_DIVE_V: 470, HAWK_REST_BEATS: 4,
   // 난이도: 숨, 간파 판정(초), 적이 다시 공격하기까지 걸리는 배수, 우두머리 체력, 혼
   DIFF: [{ name: "수월", desc: "숨 +2 · 간파가 넉넉하다 · 적이 느긋하다", breath: 2, kan: .08, fire: 1.4, bossHp: .8, hon: 1 },
          { name: "보통", desc: "의도한 장단", breath: 0, kan: 0, fire: 1, bossHp: 1, hon: 1 },

diff --git a/_review/r30_ougi.js b/_review/r30_ougi.js
@@ -1,0 +1,8 @@
+const { open, RUN } = require('./lib');
+(async () => { const { b, p, errs } = await open({ vp: { width: 1000, height: 462 }, meta: { firsts: { tutDone: 1 }, runN: 5, treeOpen: { all: 1 } } });
+  await p.waitForTimeout(800);
+  const r = await p.evaluate(() => { const run = __dbg.run; run.qi = 100; const before = { open: !!run.ougiId, breath: run.breath, sp: run.sp };
+    __dbg.chungo(); return before; });
+  await p.waitForTimeout(100); await p.screenshot({ path: 'shots/chungo_plain.png' }); await p.waitForTimeout(1500);
+  const r2 = await p.evaluate(() => { const run = __dbg.run; const fx = window.__lastFx; return { qi: run.qi }; });
+  console.log('plain', r, r2, errs); await b.close(); })();

diff --git a/_review/r30b.js b/_review/r30b.js
@@ -1,0 +1,6 @@
+const { open } = require('./lib');
+(async () => { const { b, p, errs } = await open({ vp: { width: 1000, height: 462 }, meta: { firsts: { tutDone: 1 }, runN: 5, treeOpen: { all: 1 } } });
+  await p.waitForTimeout(800);
+  const r = await p.evaluate(() => { const c = __dbg.chosik.find(c => c.tree === 'hwando' && c.tier === 3); __dbg.branchEnd(c.id); const run = __dbg.run; run.qi = 100; const ok = __dbg.chungo(); return { id: c.id, ougiId: run.ougiId, perks: run.perks.slice(-2), ok, toast: document.getElementById('toast').textContent }; });
+  await p.waitForTimeout(700); await p.screenshot({ path: 'shots/chungo_ougi.png' });
+  console.log(r, errs); await b.close(); })();

diff --git a/sw.js b/sw.js
@@ -1,6 +1,6 @@
 // 천고 service worker: network-first for the game files (so updates land on the next launch),
 // cache fallback for offline play, cache-first for Google Fonts.
-const CACHE = "chungo-v137";
+const CACHE = "chungo-v138";
 const ASSETS = "chungo-assets";   // pictures and sound: kept across versions, served at once, refreshed in the background
 const CORE = ["./", "index.html", "manifest.webmanifest",
   "icons/icon-192.png", "icons/icon-512.png", "icons/apple-touch-icon.png"];

diff --git a/GAME_REVIEW_REPORT.md b/GAME_REVIEW_REPORT.md
@@ -523,3 +523,25 @@
 | 설치 | 앱 설치 시 방향 고정(가로) 해제 → 세로도 가능 | [코드 확인] |
 
 점수: B5 7 → 7(구멍 해소는 감점 요인 제거), C1 UX 세로 대응 보강. 총점 7.4 유지 — 세로 화면은 실기기 사진으로 한 번 더 확인 후 올린다.
+
+---
+
+## ⑯ 8차 반영 — 플레이 기록 기반 난이도 조정 + 천고난무 구조
+
+제작자 플레이 기록(9판): 평균 2관문 · 판당 혼 34 · 천고 0 · 관문당 30초 · 관문당 잃는 숨 1.5 · 사망 원인 매 3 / 낭떠러지 2 / 순라 1 · 가장 많이 막힌 곳 제3관문.
+해석: 시작 숨 3, 관문 회복 상한 3에서 관문마다 1.5를 잃으면 순손실 0.5/관문 → 3관문 근처에서 바닥. [실행 확인 — 제작자 기록]
+
+| 항목 | 이전 | 이후 | 근거 |
+|---|---|---|---|
+| 시작 숨 / 관문 회복 상한 | 3 / 3 | 4 / 4 | 순손실 구조 해소 |
+| 맞은 뒤 무적 | 1.2초 | 1.5초 | 연속 피격 방지 |
+| 간파 판정 | 0.30초 | 0.34초 | |
+| 우두머리 체력 배수 | 2.2 | 1.9 | |
+| 매 급강하 | 예고 0.5초 · 속도 560 · 3박 쉼 | 예고 0.7초 · 속도 470 · 4박 쉼 | 사망 원인 1위 |
+| 낭떠러지 | 낙법 비급이 있어야 무사 | 관문마다 1번은 숨을 잃지 않고 딛던 곳으로 | 사망 원인 2위 |
+| 수월 안내 | 3판 연속 | 2판 연속 | |
+| 서고 3단 | 혼 60 | 혼 40 | 판당 혼 34 → 1~2판 |
+| 수련점 | 0점 시작 · 3단 2점 | 1점 시작 · 3단 1점 | 3관문 안에 갈래 끝 도달 가능 |
+| 천고난무 | 무조건 무기 오의 | 기본: 모든 무기 같은 기술, 가까운 적 5 · 우두머리엔 피해 없음 → 갈래 3단을 익히면 그 판에서 **천고난무-오의**로 바뀜(갈래 오의 비급도 함께) → 천고를 베면 각성 | 제작자 제안 |
+
+모든 수치는 `js/tuning.js`에 있음(FREE_FALLS, START_SP, HAWK_* 추가).
